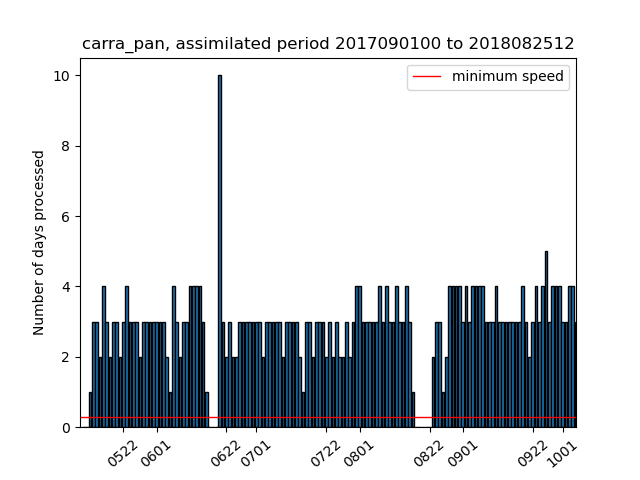
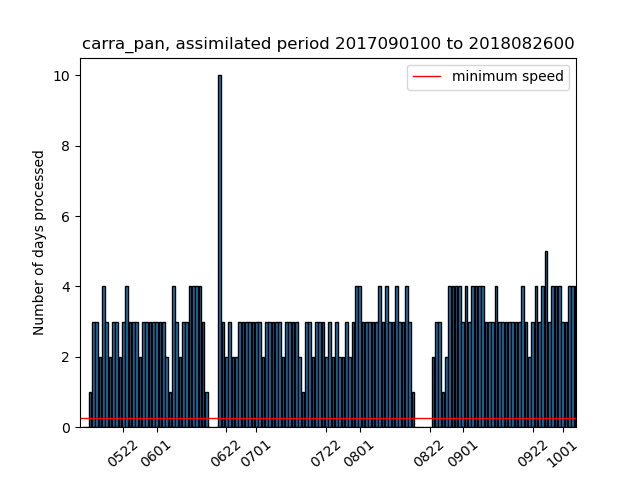
update repo

Changed region(s): [[0.125, 0.8438, 0.9062, 0.875], [0.8438, 0.0625, 0.9062, 0.125]]

diff --git a/current_state_sims.html b/current_state_sims.html
@@ -2,18 +2,18 @@
 <h1>Estimated completion dates and simulation speeds</h1>
 <p>Stream (production) completion date based on 30d (7d) moving avg speed</p>
 <p><a href="https://docs.google.com/document/d/1zDKAxuEXYnWWYzT3SZnZwY5WW8nodUMeYRjAGz46coc/edit#">Details of the calculation of the completion dates</a></p>
-<p>Last update: 2021/10/06 00:39:51 UTC</p>
+<p>Last update: 2021/10/06 06:47:27 UTC</p>
 <p>Total progress CARRA: 99.44% <a href="https://hirlam.org/portal/CARRA/Progress/GanntChart_CARRA.html"> (see detailed progress meter in Gantt chart) </a></p>
 <p>Total progress PANARCTIC: 91.67% </p>
 <p><a href="https://hirlam.org/portal/CARRA/Progress/waiting_times.html"> Queue waiting times for all streams</a></p>
 <p><a href="https://hirlam.org/portal/CARRA/Progress/mars_status.html"> MARS archive throughput </a></p>
 <html><table border="1"><tr><th>expId</th><th>Current assimilated date</th><th>End date of stream </th><th> Completion date</th><th> Avg. throughput (7d) </th> <th>Avg. throughput (30d) </th> <th> Remarks</tr>
-<tr bgcolor="#FFFF00"><td>carra_NE_3</td><td>2021063000</td><td>2021063021</td><td>2021100600</td><td>(0.0) days/day</td><td>(2.83) days/day</td><td>Inactive the past week</tr>
+<tr bgcolor="#FFFF00"><td>carra_NE_3</td><td>2021063000</td><td>2021063021</td><td>2021100606</td><td>(0.0) days/day</td><td>(2.83) days/day</td><td>Inactive the past week</tr>
 <tr bgcolor="#33FF38"><td>carra_NE_4</td><td>1992090100</td><td>1992083021</td><td>Finished on 20210824</td><td>(0.0) days/day</td><td>(0.0) days/day</td><td>Stream finished</tr>
 <tr bgcolor="#33FF38"><td>carra_NE_5</td><td>1994090100</td><td>1994083021</td><td>Finished on 20210824</td><td>(0.0) days/day</td><td>(0.0) days/day</td><td>Stream finished</tr>
-<tr bgcolor="#33FF38"><td>carra_NE_6</td><td>1997070100</td><td>1997063021</td><td>2021100512</td><td>(0.0) days/day</td><td>(2.03) days/day</td><td>Stream finished</tr>
-<tr bgcolor="#FFFF00"><td>carra_IGB_3</td><td>2021063000</td><td>2021063021</td><td>2021100600</td><td>(0.0) days/day</td><td>(2.87) days/day</td><td>Inactive the past week</tr>
-<tr bgcolor="#33FF38"><td>carra_IGB_4</td><td>1992090100</td><td>1992083021</td><td>2021092812</td><td>(0.0) days/day</td><td>(0.27) days/day</td><td>Stream finished</tr>
-<tr bgcolor="#33FF38"><td>carra_IGB_5</td><td>1994090100</td><td>1994083021</td><td>2021100511</td><td>(0.0) days/day</td><td>(3.77) days/day</td><td>Stream finished</tr>
-<tr bgcolor="#FFA500"><td>carra_IGB_6</td><td>1997012512</td><td>1997063021</td><td>2021110114</td><td>(6.29) days/day</td><td>(5.87) days/day</td><td>Completion date after project end (20211031)</tr>
-<tr bgcolor="#FFFFFF"><td>carra_pan</td><td>2018082512</td><td>2018090100</td><td>2021100802</td><td>(3.57) days/day</td><td>(3.4) days/day</td><td></tr>
+<tr bgcolor="#33FF38"><td>carra_NE_6</td><td>1997070100</td><td>1997063021</td><td>2021100518</td><td>(0.0) days/day</td><td>(2.03) days/day</td><td>Stream finished</tr>
+<tr bgcolor="#FFFF00"><td>carra_IGB_3</td><td>2021063000</td><td>2021063021</td><td>2021100606</td><td>(0.0) days/day</td><td>(2.87) days/day</td><td>Inactive the past week</tr>
+<tr bgcolor="#33FF38"><td>carra_IGB_4</td><td>1992090100</td><td>1992083021</td><td>2021092818</td><td>(0.0) days/day</td><td>(0.27) days/day</td><td>Stream finished</tr>
+<tr bgcolor="#33FF38"><td>carra_IGB_5</td><td>1994090100</td><td>1994083021</td><td>2021100518</td><td>(0.0) days/day</td><td>(3.77) days/day</td><td>Stream finished</tr>
+<tr bgcolor="#FFA500"><td>carra_IGB_6</td><td>1997012612</td><td>1997063021</td><td>2021110109</td><td>(6.57) days/day</td><td>(5.93) days/day</td><td>Completion date after project end (20211031)</tr>
+<tr bgcolor="#FFFFFF"><td>carra_pan</td><td>2018082600</td><td>2018090100</td><td>2021100800</td><td>(3.71) days/day</td><td>(3.43) days/day</td><td></tr>
